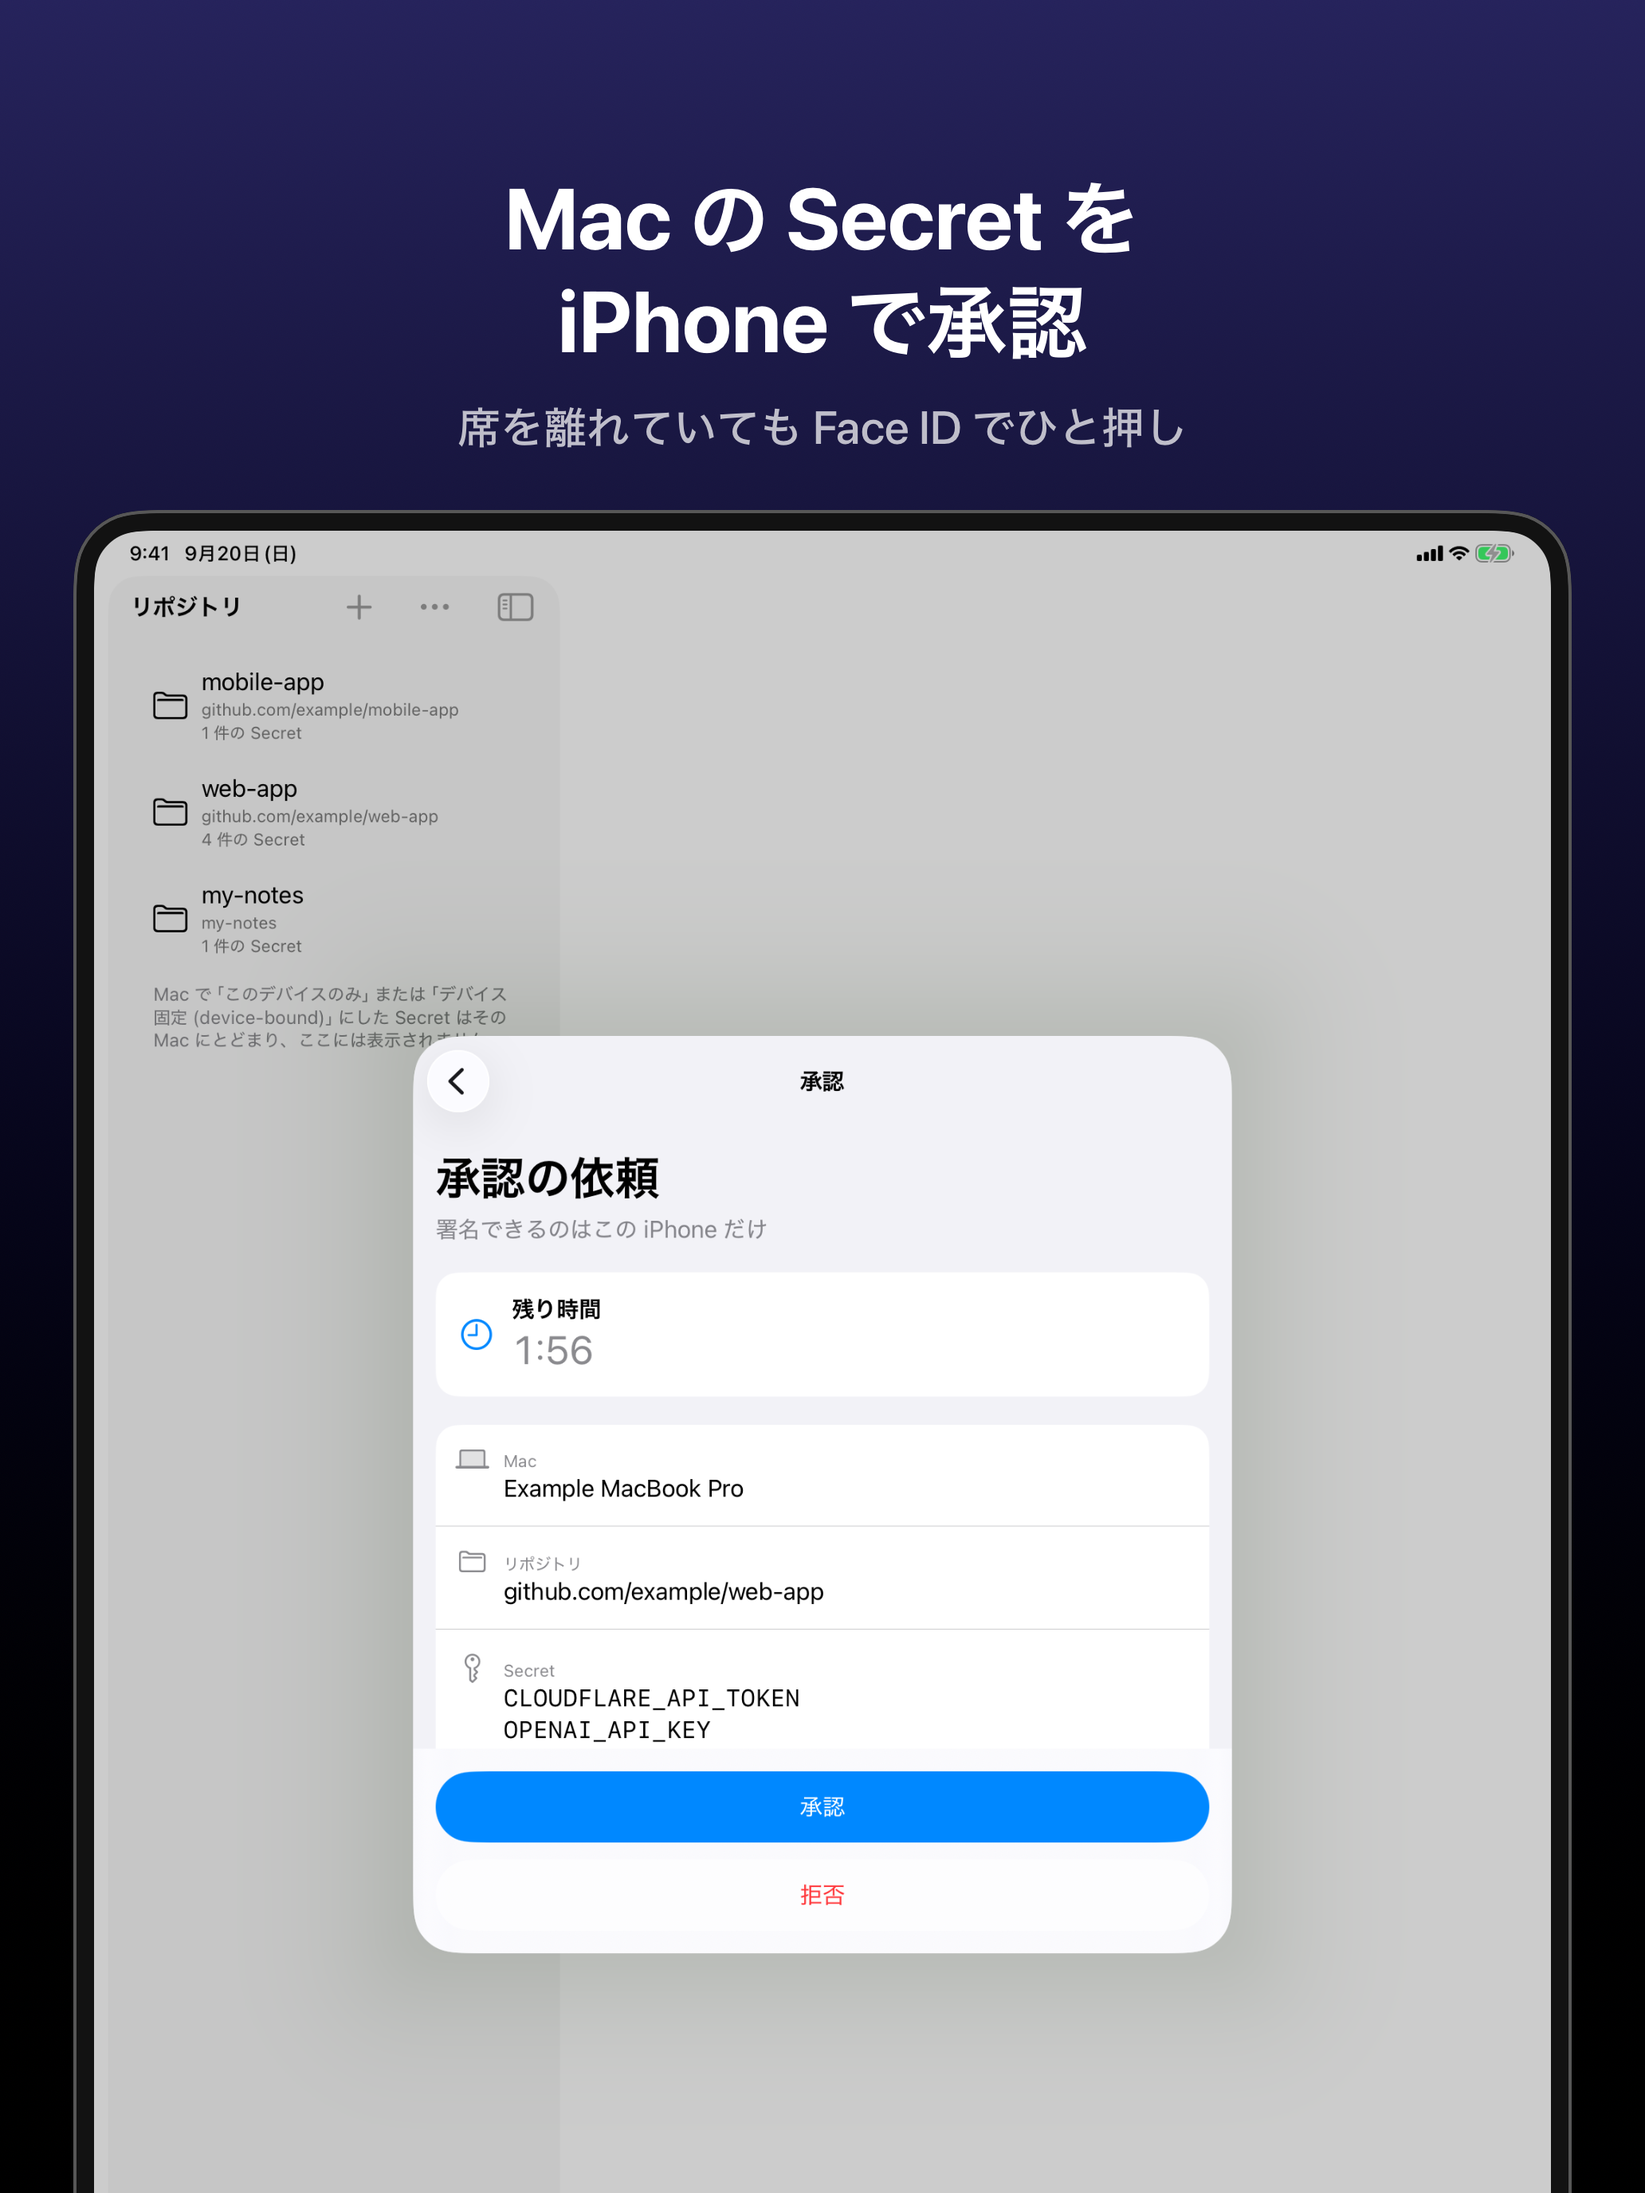
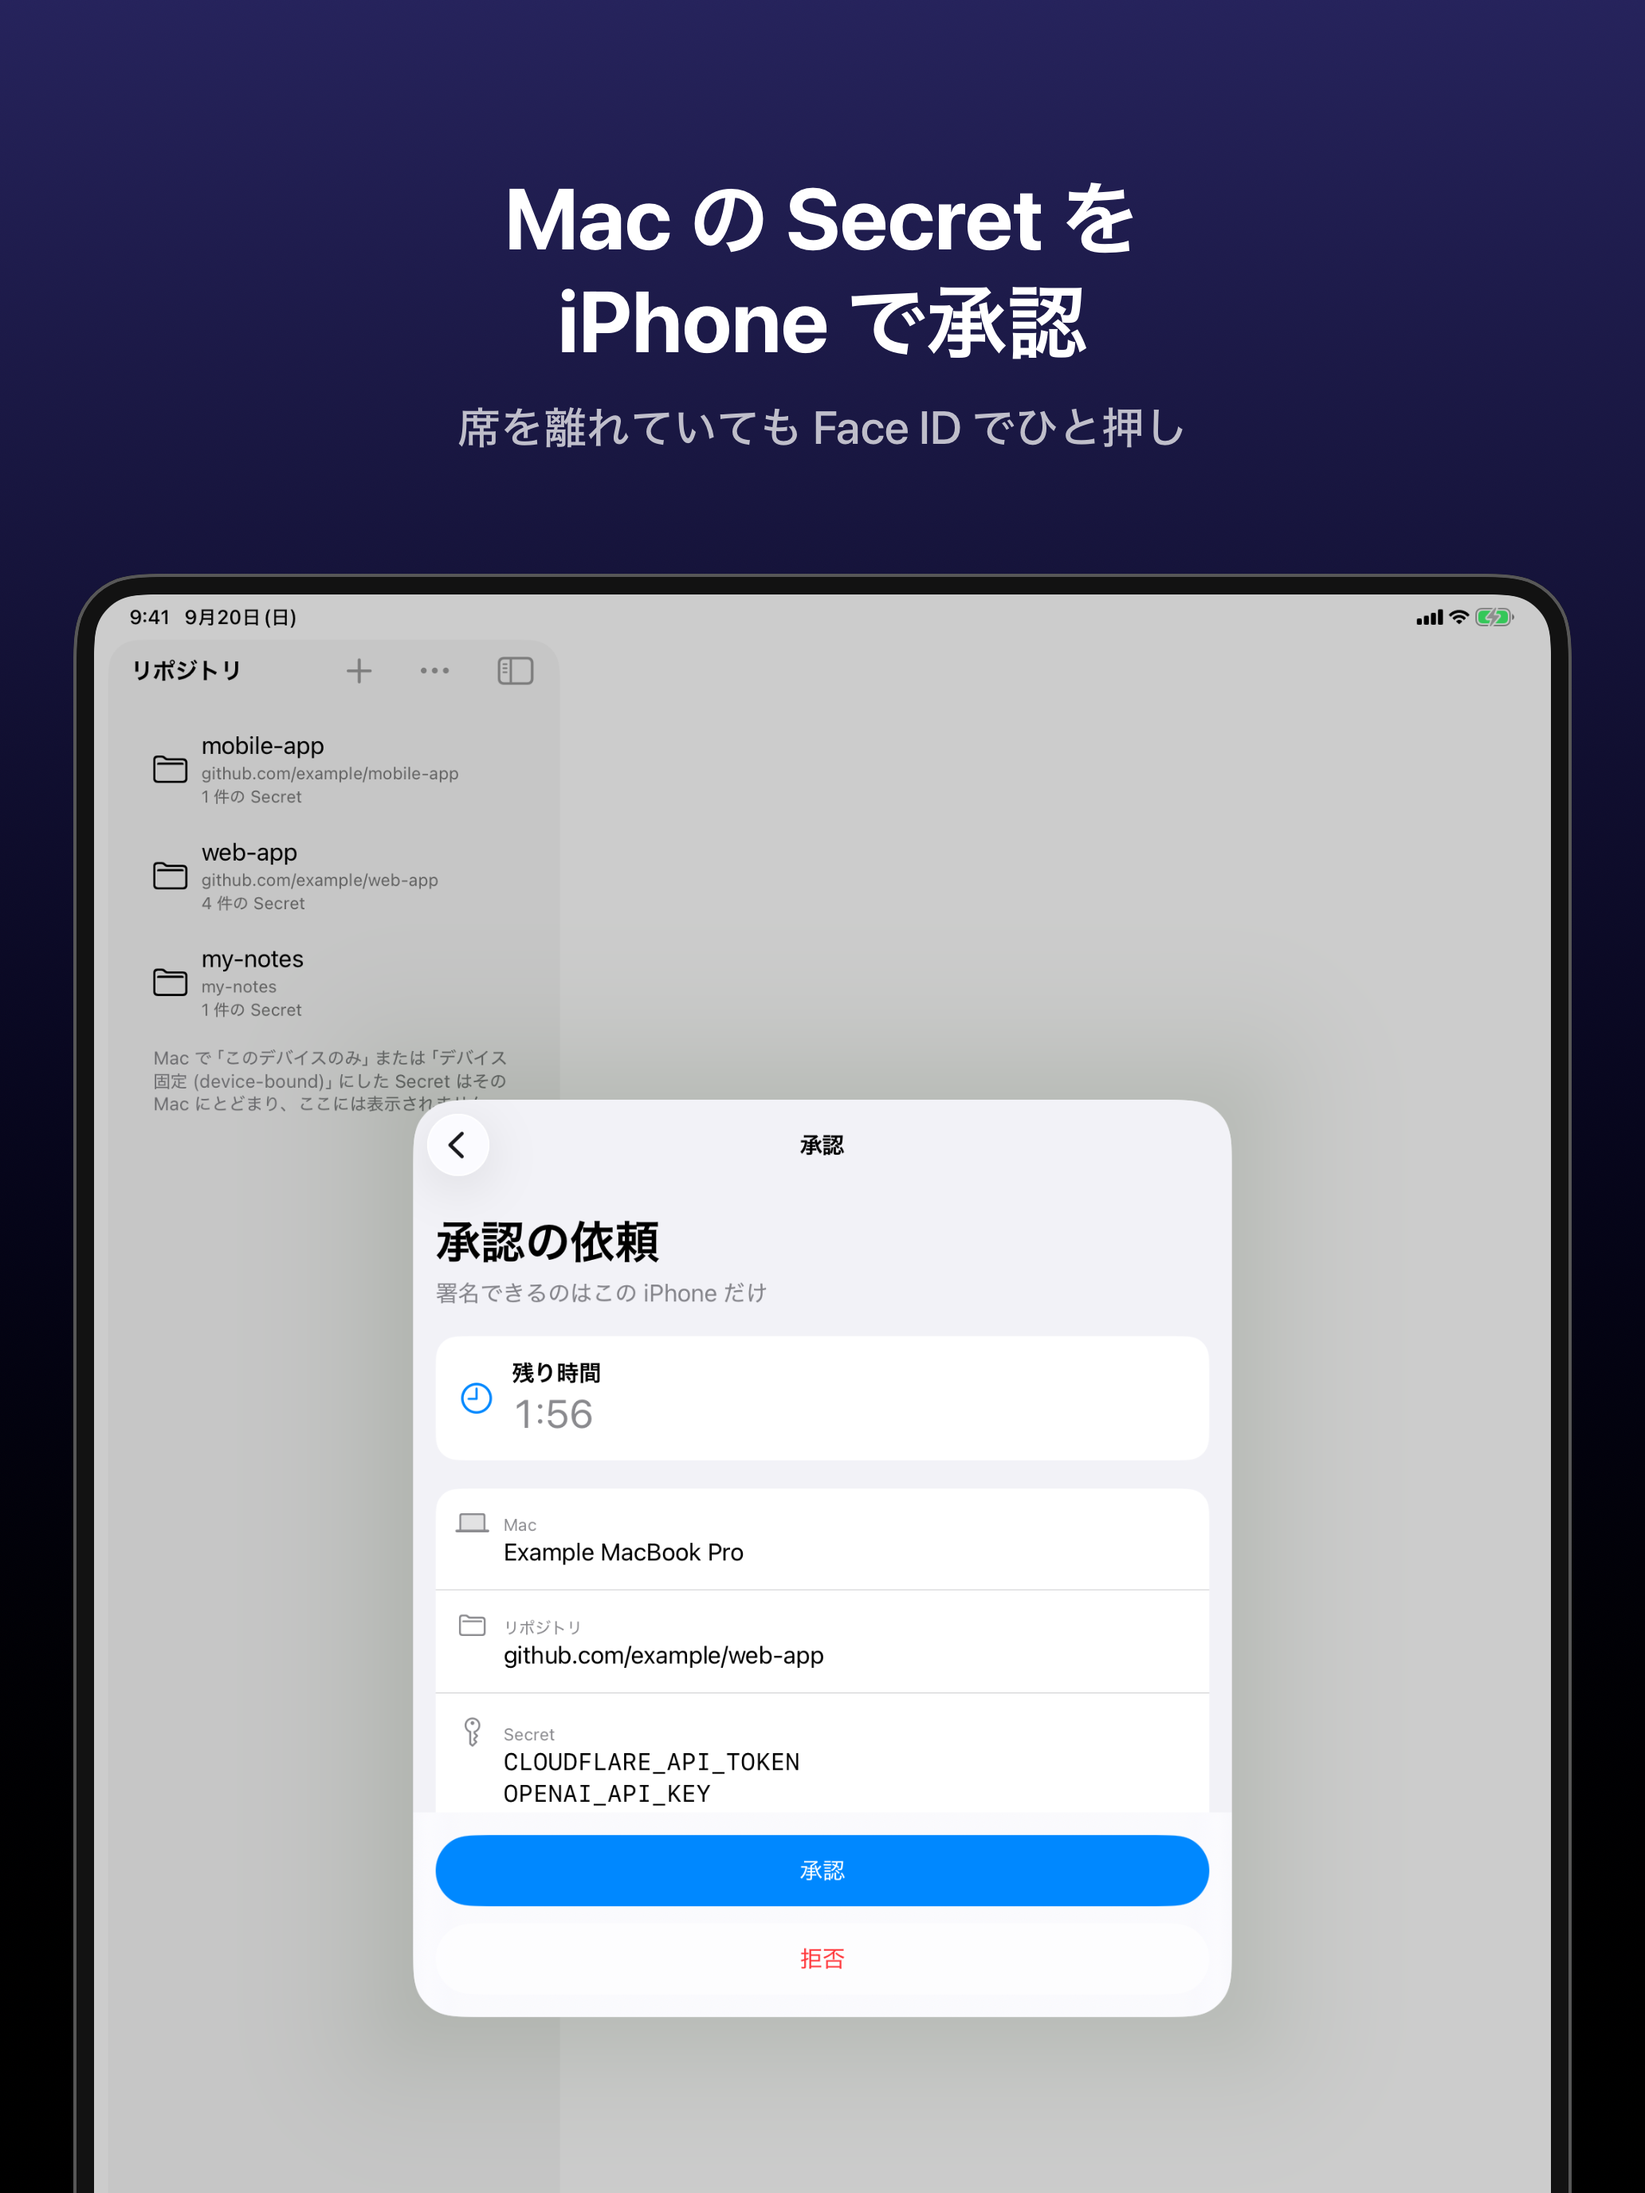
fix: iPad の主役の開始位置を下げ、コピーとの間を空ける
iPad の subjectTop を 640 から 720 にする。4・5 枚目は見出しも説明文も 2 行あり、
コピーの最下行が 630 行目まで来るため、640 から始まる主役が詰まって見えていた。
全ページ共通の値で、他のページは端末モックが下で切れる位置が変わるだけ。

再生成した iPad 14 枚で、コピーの最下行と主役の上端の間は最も狭い 4 枚目
(英語 94px、日本語 90px) と日本語の 5 枚目 (90px) でも 60px 以上ある。

Changed region(s): [[0.031, 0.2188, 0.9612, 0.9375]]

diff --git a/AppStoreScreenshotsUITests/AppStoreScreenshotLayout.swift b/AppStoreScreenshotsUITests/AppStoreScreenshotLayout.swift
@@ -74,10 +74,14 @@ enum AppStoreScreenshotDevice {
 
     /// Where the device mock or the terminal starts. Fixed rather than derived from the height of
     /// the copy so that the mock sits at the same height in every language.
+    ///
+    /// Far enough below the copy that the longest one still breathes: the iPad's copy reaches row
+    /// 630 when both the title and the subtitle take two lines, which is the fourth and the fifth
+    /// page, and a subject starting at 640 read as stuck to it.
     var subjectTop: CGFloat {
         switch self {
         case .iPhone: 660
-        case .iPad: 640
+        case .iPad: 720
         }
     }
 
